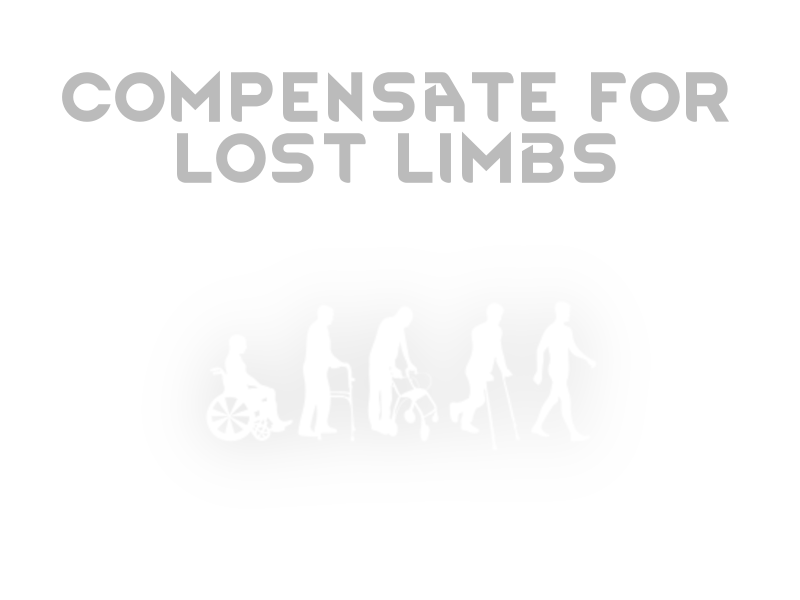
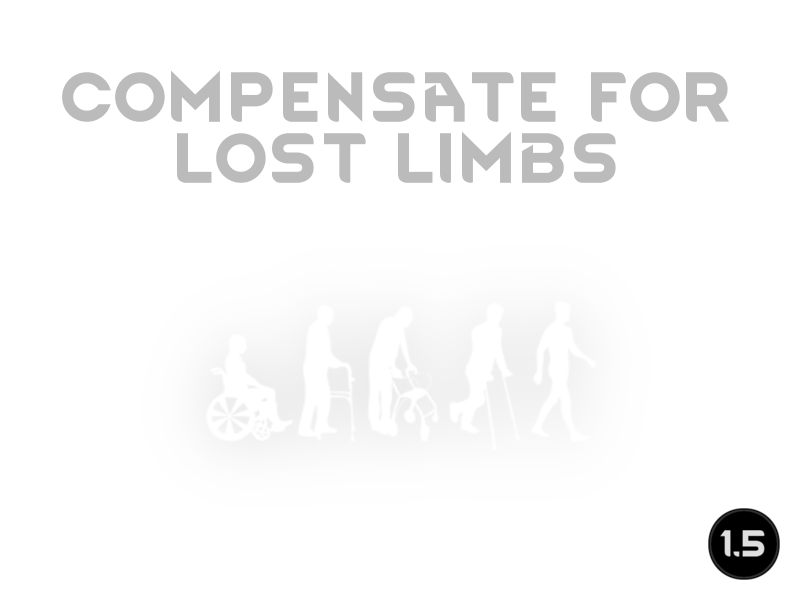
Mod updated for 1.5 and passed autotests Used DeepL to update translations for ChineseSimplified, French, German

Changed region(s): [[0.875, 0.84, 1.0, 0.99]]

diff --git a/Source/CompensateForLostLimbs/PawnCapacityUtility_CalculatePartEfficiency.cs b/Source/CompensateForLostLimbs/PawnCapacityUtility_CalculatePartEfficiency.cs
@@ -1,7 +1,6 @@
 using System.Collections.Generic;
 using System.Linq;
 using HarmonyLib;
-using RimWorld;
 using Verse;
 
 namespace CompensateForLostLimbs;
@@ -32,7 +31,7 @@ public class PawnCapacityUtility_CalculatePartEfficiency
         }
 
         if (CompensateForLostLimbs.bodyPartsToIgnoreForBlindsight.Contains(part.def) &&
-            diffSet.pawn.ideo?.Ideo.memes?.Contains(MemeDefOf.Blindsight) == true)
+            diffSet.pawn.ideo?.Ideo.memes?.Any(def => def.defName == "Blindsight") == true)
         {
             CompensateForLostLimbs.CachedMissingLimbs[partHash] = 0;
             __result = CompensateForLostLimbs.CachedMissingLimbs[partHash];

diff --git a/Source/CompensateForLostLimbs/CompensateForLostLimbsMod.cs b/Source/CompensateForLostLimbs/CompensateForLostLimbsMod.cs
@@ -29,8 +29,7 @@ internal class CompensateForLostLimbsMod : Mod
     {
         instance = this;
         currentVersion =
-            VersionFromManifest.GetVersionFromModMetaData(
-                ModLister.GetActiveModWithIdentifier("Mlie.CompensateForLostLimbs"));
+            VersionFromManifest.GetVersionFromModMetaData(content.ModMetaData);
     }
 
     /// <summary>

diff --git a/Source/CompensateForLostLimbs/CompensateForLostLimbs.cs b/Source/CompensateForLostLimbs/CompensateForLostLimbs.cs
@@ -23,7 +23,7 @@ public static class CompensateForLostLimbs
         }
         else
         {
-            bodyPartsToIgnoreForBlindsight = new List<BodyPartDef>();
+            bodyPartsToIgnoreForBlindsight = [];
         }
 
         var harmony = new Harmony("Mlie.CompensateForLostLimbs");

diff --git a/README.md b/README.md
@@ -1,6 +1,6 @@
 # CompensateForLostLimbs
 
-![Image](https://i.imgur.com/buuPQel.png)
+![Image](https://i.imgur.com/iCj5o7O.png)
 
 
 Over time pawns that have lost limbs will find ways to compensate for it to some extent. 
@@ -12,24 +12,26 @@ Safe to add and remove from existing games.
 
 Idea by: HazMat 
 
-![Image](https://i.imgur.com/O0IIlYj.png)
+![Image](https://i.imgur.com/Ds0rBAD.png)
 
 Since modding is just a hobby for me I expect no donations to keep modding. If you still want to show your support you can gift me anything from my https://store.steampowered.com/wishlist/id/Mlie]Wishlist or buy me a cup of tea.
 
-https://ko-fi.com/G2G55DDYD]![Image](https://i.imgur.com/Utx6OIH.png)
+https://ko-fi.com/G2G55DDYD]![Image](https://i.imgur.com/VWG0yff.png)
 
 
-![Image](https://i.imgur.com/PwoNOj4.png)
+![Image](https://i.imgur.com/5xwDG6H.png)
 
 
 
 -  See if the the error persists if you just have this mod and its requirements active.
 -  If not, try adding your other mods until it happens again.
--  Post your error-log using https://steamcommunity.com/workshop/filedetails/?id=818773962]HugsLib and command Ctrl+F12
+-  Post your error-log using https://steamcommunity.com/workshop/filedetails/?id=818773962]HugsLib or the standalone https://steamcommunity.com/sharedfiles/filedetails/?id=2873415404]Uploader and command Ctrl+F12
 -  For best support, please use the Discord-channel for error-reporting.
 -  Do not report errors by making a discussion-thread, I get no notification of that.
 -  If you have the solution for a problem, please post it to the GitHub repository.
+-  Use https://github.com/RimSort/RimSort/releases/latest]RimSort to sort your mods
 
 
 
+https://steamcommunity.com/sharedfiles/filedetails/changelog/2710489985]![Image](https://img.shields.io/github/v/release/emipa606/CompensateForLostLimbs?label=latest%20version&style=plastic&labelColor=0070cd&color=white)
 
